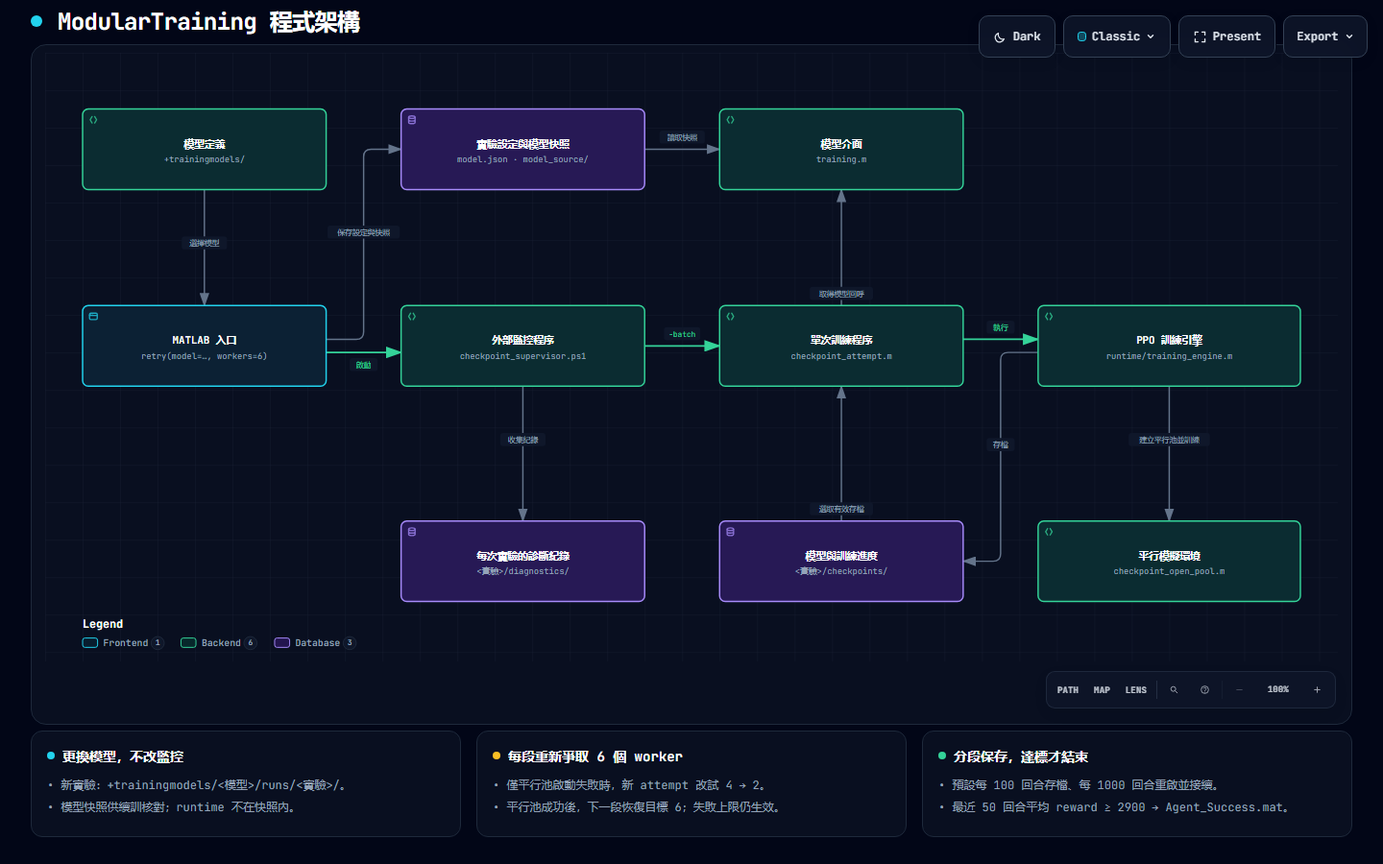
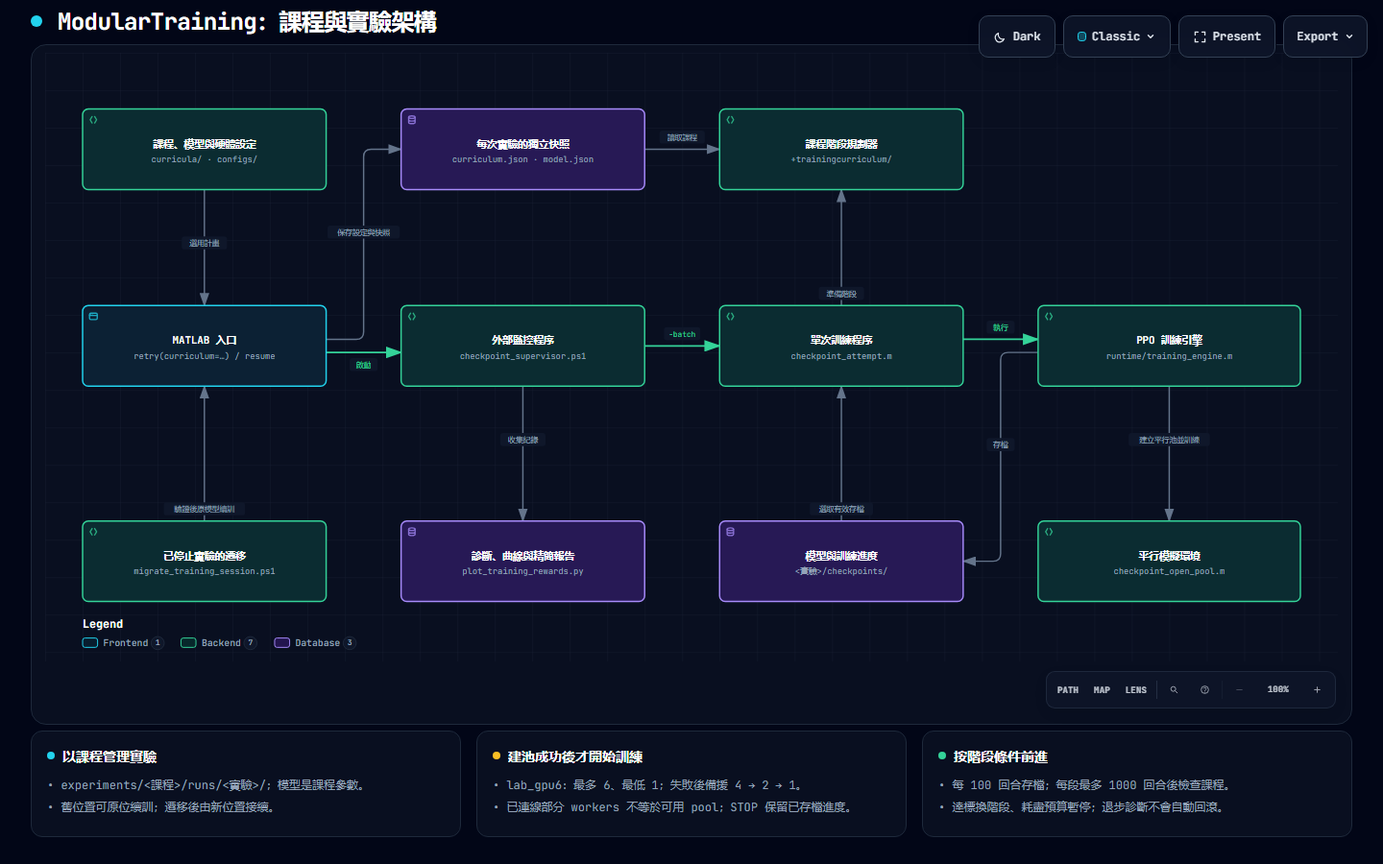
docs: update curriculum training architecture diagram

diff --git a/docs/architecture.html b/docs/architecture.html
@@ -4,7 +4,7 @@
   <meta charset="UTF-8">
   <meta name="viewport" content="width=device-width, initial-scale=1.0">
   <meta name="generator" content="archify 2.17.0-dev.1">
-  <title>ModularTraining 程式架構 Diagram</title>
+  <title>ModularTraining：課程與實驗架構 Diagram</title>
   <script>
     // Resolve the theme before first paint so light-preference users don't
     // see a dark flash. The toolbar script below re-applies with UI state.
@@ -5081,7 +5081,7 @@ OTHER DEALINGS IN THE FONT SOFTWARE.
            data-preset-badge-blueprint="BLUEPRINT / REV 01"
            data-preset-badge-editorial="EDITORIAL / FIELD NOTE">
         <div class="pulse-dot"></div>
-        <h1>ModularTraining 程式架構</h1>
+        <h1>ModularTraining：課程與實驗架構</h1>
       </div>
     </div>
 
@@ -5131,7 +5131,7 @@ OTHER DEALINGS IN THE FONT SOFTWARE.
     <div class="diagram-container" data-detail-level="read"
          data-preset-badge-editorial-plate="ARCHIFY / PLATE 04">
       <svg viewBox="0 0 1380 650" role="img" lang="en" aria-labelledby="archify-diagram-title archify-diagram-description" data-preset="classic" data-quality-profile="showcase">
-        <title id="archify-diagram-title">ModularTraining 程式架構</title>
+        <title id="archify-diagram-title">ModularTraining：課程與實驗架構</title>
         <desc id="archify-diagram-description">An architecture diagram generated by Archify.</desc>
         <!-- Definitions -->
         <defs>
@@ -5159,58 +5159,59 @@ OTHER DEALINGS IN THE FONT SOFTWARE.
 
 
         <!-- Connection paths (before components for correct z-order) -->
-        <path data-edge-from="profiles" data-edge-to="entry" data-edge-label="選擇模型" data-edge-key="0" data-edge-id="read-profile" data-composition-points="170,146;170,270" d="M 170 146 L 170 270" class="a-default" stroke-width="1.5" marker-end="url(#arrowhead)"/>
+        <path data-edge-from="profiles" data-edge-to="entry" data-edge-label="選用計畫" data-edge-key="0" data-edge-id="read-profile" data-composition-points="170,146;170,270" d="M 170 146 L 170 270" class="a-default" stroke-width="1.5" marker-end="url(#arrowhead)"/>
         <path data-edge-from="entry" data-edge-to="snapshot" data-edge-label="保存設定與快照" data-edge-key="1" data-edge-id="freeze-model" data-composition-points="300,306;340,306;340,103;380,103" d="M 300 306 L 332 306 Q 340 306 340 298 L 340 111 Q 340 103 348 103 L 380 103" class="a-default" stroke-width="1.5" marker-end="url(#arrowhead)"/>
-        <path data-edge-from="snapshot" data-edge-to="adapter" data-edge-label="讀取快照" data-edge-key="2" data-edge-id="load-snapshot" data-composition-points="640,103;720,103" d="M 640 103 L 720 103" class="a-default" stroke-width="1.5" marker-end="url(#arrowhead)"/>
+        <path data-edge-from="snapshot" data-edge-to="adapter" data-edge-label="讀取課程" data-edge-key="2" data-edge-id="load-snapshot" data-composition-points="640,103;720,103" d="M 640 103 L 720 103" class="a-default" stroke-width="1.5" marker-end="url(#arrowhead)"/>
         <path data-edge-from="entry" data-edge-to="supervisor" data-edge-label="啟動" data-edge-key="3" data-edge-id="launch-monitor" data-composition-points="300,320;380,320" d="M 300 320 L 380 320" class="a-emphasis" stroke-width="1.8" marker-end="url(#arrowhead-emphasis)"/>
         <path data-edge-from="supervisor" data-edge-to="attempt" data-edge-label="-batch" data-edge-key="4" data-edge-id="launch-attempt" data-composition-points="640,313;720,313" d="M 640 313 L 720 313" class="a-emphasis" stroke-width="1.8" marker-end="url(#arrowhead-emphasis)"/>
-        <path data-edge-from="attempt" data-edge-to="adapter" data-edge-label="取得模型回呼" data-edge-key="5" data-edge-id="inject-model" data-composition-points="850,270;850,146" d="M 850 270 L 850 146" class="a-default" stroke-width="1.5" marker-end="url(#arrowhead)"/>
+        <path data-edge-from="attempt" data-edge-to="adapter" data-edge-label="準備階段" data-edge-key="5" data-edge-id="inject-model" data-composition-points="850,270;850,146" d="M 850 270 L 850 146" class="a-default" stroke-width="1.5" marker-end="url(#arrowhead)"/>
         <path data-edge-from="attempt" data-edge-to="engine" data-edge-label="執行" data-edge-key="6" data-edge-id="run-engine" data-composition-points="980,306;1060,306" d="M 980 306 L 1060 306" class="a-emphasis" stroke-width="1.8" marker-end="url(#arrowhead-emphasis)"/>
         <path data-edge-from="checkpoints" data-edge-to="attempt" data-edge-label="選取有效存檔" data-edge-key="7" data-edge-id="resume-model" data-composition-points="850,500;850,356" d="M 850 500 L 850 356" class="a-default" stroke-width="1.5" marker-end="url(#arrowhead)"/>
         <path data-edge-from="engine" data-edge-to="pool" data-edge-label="建立平行池並訓練" data-edge-key="8" data-edge-id="train-workers" data-composition-points="1200,356;1200,500" d="M 1200 356 L 1200 500" class="a-default" stroke-width="1.5" marker-end="url(#arrowhead)"/>
         <path data-edge-from="engine" data-edge-to="checkpoints" data-edge-label="存檔" data-edge-key="9" data-edge-id="save-progress" data-composition-points="1060,320;1020,320;1020,543;980,543" d="M 1060 320 L 1028 320 Q 1020 320 1020 328 L 1020 535 Q 1020 543 1012 543 L 980 543" class="a-default" stroke-width="1.5" marker-end="url(#arrowhead)"/>
         <path data-edge-from="supervisor" data-edge-to="diagnostics" data-edge-label="收集紀錄" data-edge-key="10" data-edge-id="record-diagnostics" data-composition-points="510,356;510,500" d="M 510 356 L 510 500" class="a-default" stroke-width="1.5" marker-end="url(#arrowhead)"/>
+        <path data-edge-from="migration" data-edge-to="entry" data-edge-label="驗證後原模型續訓" data-edge-key="11" data-edge-id="resume-copy" data-composition-points="170,500;170,356" d="M 170 500 L 170 356" class="a-default" stroke-width="1.5" marker-end="url(#arrowhead)"/>
 
         <!-- Components -->
-        <g id="node-profiles" data-node-id="profiles" data-node-label="模型定義" tabindex="0" role="button" aria-label="Focus 模型定義, +trainingmodels/, Architecture component" aria-pressed="false" data-node-kind="backend" data-node-sublabel="+trainingmodels/" data-node-tag="PPO · LSTM / MLP · 調參版本" data-node-context="Architecture component">
-          <title>模型定義 · +trainingmodels/ · Architecture component · PPO · LSTM / MLP · 調參版本</title>
+        <g id="node-profiles" data-node-id="profiles" data-node-label="課程、模型與硬體設定" tabindex="0" role="button" aria-label="Focus 課程、模型與硬體設定, curricula/ · configs/, Architecture component" aria-pressed="false" data-node-kind="backend" data-node-sublabel="curricula/ · configs/" data-node-tag="課程指定 +trainingmodels/ 模型" data-node-context="Architecture component">
+          <title>課程、模型與硬體設定 · curricula/ · configs/ · Architecture component · 課程指定 +trainingmodels/ 模型</title>
           <rect x="40" y="60" width="260" height="86" rx="6" class="c-mask"/>
           <rect x="40" y="60" width="260" height="86" rx="6" class="c-backend" stroke-width="1.5"/>
           <g aria-hidden="true" data-semantic-sigil="backend" class="semantic-sigil s-backend" transform="translate(46 66) scale(0.6875)">
             <path d="M6 3 3 8l3 5M10 3l3 5-3 5"/>
           </g>
-          <text data-node-label="" data-detail-anchor="" x="170" y="101" class="t-primary" font-size="11" font-weight="600" text-anchor="middle">模型定義</text>
-        <text data-detail="context" x="170" y="117" class="t-muted" font-size="9" text-anchor="middle">+trainingmodels/</text>
-        <text data-detail="fine" x="170" y="138" class="t-backend" font-size="7" text-anchor="middle">PPO · LSTM / MLP · 調參版本</text>
+          <text data-node-label="" data-detail-anchor="" x="170" y="101" class="t-primary" font-size="11" font-weight="600" text-anchor="middle">課程、模型與硬體設定</text>
+        <text data-detail="context" x="170" y="117" class="t-muted" font-size="9" text-anchor="middle">curricula/ · configs/</text>
+        <text data-detail="fine" x="170" y="138" class="t-backend" font-size="7" text-anchor="middle">課程指定 +trainingmodels/ 模型</text>
         </g>
 
-        <g id="node-snapshot" data-node-id="snapshot" data-node-label="實驗設定與模型快照" tabindex="0" role="button" aria-label="Focus 實驗設定與模型快照, model.json · model_source/, Architecture component" aria-pressed="false" data-node-kind="database" data-node-sublabel="model.json · model_source/" data-node-tag="control.json：執行參數" data-node-context="Architecture component">
-          <title>實驗設定與模型快照 · model.json · model_source/ · Architecture component · control.json：執行參數</title>
+        <g id="node-snapshot" data-node-id="snapshot" data-node-label="每次實驗的獨立快照" tabindex="0" role="button" aria-label="Focus 每次實驗的獨立快照, curriculum.json · model.json, Architecture component" aria-pressed="false" data-node-kind="database" data-node-sublabel="curriculum.json · model.json" data-node-tag="軌跡、模型原始碼與 control.json" data-node-context="Architecture component">
+          <title>每次實驗的獨立快照 · curriculum.json · model.json · Architecture component · 軌跡、模型原始碼與 control.json</title>
           <rect x="380" y="60" width="260" height="86" rx="6" class="c-mask"/>
           <rect x="380" y="60" width="260" height="86" rx="6" class="c-database" stroke-width="1.5"/>
           <g aria-hidden="true" data-semantic-sigil="database" class="semantic-sigil s-database" transform="translate(386 66) scale(0.6875)">
             <ellipse cx="8" cy="4" rx="5" ry="2"/>
             <path d="M3 4v8c0 1.1 2.2 2 5 2s5-.9 5-2V4M3 8c0 1.1 2.2 2 5 2s5-.9 5-2"/>
           </g>
-          <text data-node-label="" data-detail-anchor="" x="510" y="101" class="t-primary" font-size="11" font-weight="600" text-anchor="middle">實驗設定與模型快照</text>
-        <text data-detail="context" x="510" y="117" class="t-muted" font-size="9" text-anchor="middle">model.json · model_source/</text>
-        <text data-detail="fine" x="510" y="138" class="t-database" font-size="7" text-anchor="middle">control.json：執行參數</text>
+          <text data-node-label="" data-detail-anchor="" x="510" y="101" class="t-primary" font-size="11" font-weight="600" text-anchor="middle">每次實驗的獨立快照</text>
+        <text data-detail="context" x="510" y="117" class="t-muted" font-size="9" text-anchor="middle">curriculum.json · model.json</text>
+        <text data-detail="fine" x="510" y="138" class="t-database" font-size="7" text-anchor="middle">軌跡、模型原始碼與 control.json</text>
         </g>
 
-        <g id="node-adapter" data-node-id="adapter" data-node-label="模型介面" tabindex="0" role="button" aria-label="Focus 模型介面, training.m, Architecture component" aria-pressed="false" data-node-kind="backend" data-node-sublabel="training.m" data-node-tag="回傳 factory / validator 回呼" data-node-context="Architecture component">
-          <title>模型介面 · training.m · Architecture component · 回傳 factory / validator 回呼</title>
+        <g id="node-adapter" data-node-id="adapter" data-node-label="課程階段規劃器" tabindex="0" role="button" aria-label="Focus 課程階段規劃器, +trainingcurriculum/, Architecture component" aria-pressed="false" data-node-kind="backend" data-node-sublabel="+trainingcurriculum/" data-node-tag="依存檔歷史檢查條件與階段預算" data-node-context="Architecture component">
+          <title>課程階段規劃器 · +trainingcurriculum/ · Architecture component · 依存檔歷史檢查條件與階段預算</title>
           <rect x="720" y="60" width="260" height="86" rx="6" class="c-mask"/>
           <rect x="720" y="60" width="260" height="86" rx="6" class="c-backend" stroke-width="1.5"/>
           <g aria-hidden="true" data-semantic-sigil="backend" class="semantic-sigil s-backend" transform="translate(726 66) scale(0.6875)">
             <path d="M6 3 3 8l3 5M10 3l3 5-3 5"/>
           </g>
-          <text data-node-label="" data-detail-anchor="" x="850" y="101" class="t-primary" font-size="11" font-weight="600" text-anchor="middle">模型介面</text>
-        <text data-detail="context" x="850" y="117" class="t-muted" font-size="9" text-anchor="middle">training.m</text>
-        <text data-detail="fine" x="850" y="138" class="t-backend" font-size="7" text-anchor="middle">回傳 factory / validator 回呼</text>
+          <text data-node-label="" data-detail-anchor="" x="850" y="101" class="t-primary" font-size="11" font-weight="600" text-anchor="middle">課程階段規劃器</text>
+        <text data-detail="context" x="850" y="117" class="t-muted" font-size="9" text-anchor="middle">+trainingcurriculum/</text>
+        <text data-detail="fine" x="850" y="138" class="t-backend" font-size="7" text-anchor="middle">依存檔歷史檢查條件與階段預算</text>
         </g>
 
-        <g id="node-entry" data-node-id="entry" data-node-label="MATLAB 入口" tabindex="0" role="button" aria-label="Focus MATLAB 入口, retry(model=…, workers=6), Architecture component" aria-pressed="false" data-node-kind="frontend" data-node-sublabel="retry(model=…, workers=6)" data-node-tag="新實驗或 resume" data-node-context="Architecture component">
-          <title>MATLAB 入口 · retry(model=…, workers=6) · Architecture component · 新實驗或 resume</title>
+        <g id="node-entry" data-node-id="entry" data-node-label="MATLAB 入口" tabindex="0" role="button" aria-label="Focus MATLAB 入口, retry(curriculum=…) / resume, Architecture component" aria-pressed="false" data-node-kind="frontend" data-node-sublabel="retry(curriculum=…) / resume" data-node-tag="新建按課程分類；續訓沿用指定位置" data-node-context="Architecture component">
+          <title>MATLAB 入口 · retry(curriculum=…) / resume · Architecture component · 新建按課程分類；續訓沿用指定位置</title>
           <rect x="40" y="270" width="260" height="86" rx="6" class="c-mask"/>
           <rect x="40" y="270" width="260" height="86" rx="6" class="c-frontend" stroke-width="1.5"/>
           <g aria-hidden="true" data-semantic-sigil="frontend" class="semantic-sigil s-frontend" transform="translate(46 276) scale(0.6875)">
@@ -5220,8 +5221,8 @@ OTHER DEALINGS IN THE FONT SOFTWARE.
             <circle cx="6.3" cy="4.8" r=".7" class="sigil-fill"/>
           </g>
           <text data-node-label="" data-detail-anchor="" x="170" y="311" class="t-primary" font-size="11" font-weight="600" text-anchor="middle">MATLAB 入口</text>
-        <text data-detail="context" x="170" y="327" class="t-muted" font-size="9" text-anchor="middle">retry(model=…, workers=6)</text>
-        <text data-detail="fine" x="170" y="348" class="t-frontend" font-size="7" text-anchor="middle">新實驗或 resume</text>
+        <text data-detail="context" x="170" y="327" class="t-muted" font-size="9" text-anchor="middle">retry(curriculum=…) / resume</text>
+        <text data-detail="fine" x="170" y="348" class="t-frontend" font-size="7" text-anchor="middle">新建按課程分類；續訓沿用指定位置</text>
         </g>
 
         <g id="node-supervisor" data-node-id="supervisor" data-node-label="外部監控程序" tabindex="0" role="button" aria-label="Focus 外部監控程序, checkpoint_supervisor.ps1, Architecture component" aria-pressed="false" data-node-kind="backend" data-node-sublabel="checkpoint_supervisor.ps1" data-node-tag="PowerShell · 重試與逾時" data-node-context="Architecture component">
@@ -5236,8 +5237,8 @@ OTHER DEALINGS IN THE FONT SOFTWARE.
         <text data-detail="fine" x="510" y="348" class="t-backend" font-size="7" text-anchor="middle">PowerShell · 重試與逾時</text>
         </g>
 
-        <g id="node-attempt" data-node-id="attempt" data-node-label="單次訓練程序" tabindex="0" role="button" aria-label="Focus 單次訓練程序, checkpoint_attempt.m, Architecture component" aria-pressed="false" data-node-kind="backend" data-node-sublabel="checkpoint_attempt.m" data-node-tag="每次使用新的 MATLAB" data-node-context="Architecture component">
-          <title>單次訓練程序 · checkpoint_attempt.m · Architecture component · 每次使用新的 MATLAB</title>
+        <g id="node-attempt" data-node-id="attempt" data-node-label="單次訓練程序" tabindex="0" role="button" aria-label="Focus 單次訓練程序, checkpoint_attempt.m, Architecture component" aria-pressed="false" data-node-kind="backend" data-node-sublabel="checkpoint_attempt.m" data-node-tag="training.m 提供模型回呼" data-node-context="Architecture component">
+          <title>單次訓練程序 · checkpoint_attempt.m · Architecture component · training.m 提供模型回呼</title>
           <rect x="720" y="270" width="260" height="86" rx="6" class="c-mask"/>
           <rect x="720" y="270" width="260" height="86" rx="6" class="c-backend" stroke-width="1.5"/>
           <g aria-hidden="true" data-semantic-sigil="backend" class="semantic-sigil s-backend" transform="translate(726 276) scale(0.6875)">
@@ -5245,7 +5246,7 @@ OTHER DEALINGS IN THE FONT SOFTWARE.
           </g>
           <text data-node-label="" data-detail-anchor="" x="850" y="311" class="t-primary" font-size="11" font-weight="600" text-anchor="middle">單次訓練程序</text>
         <text data-detail="context" x="850" y="327" class="t-muted" font-size="9" text-anchor="middle">checkpoint_attempt.m</text>
-        <text data-detail="fine" x="850" y="348" class="t-backend" font-size="7" text-anchor="middle">每次使用新的 MATLAB</text>
+        <text data-detail="fine" x="850" y="348" class="t-backend" font-size="7" text-anchor="middle">training.m 提供模型回呼</text>
         </g>
 
         <g id="node-engine" data-node-id="engine" data-node-label="PPO 訓練引擎" tabindex="0" role="button" aria-label="Focus PPO 訓練引擎, runtime/training_engine.m, Architecture component" aria-pressed="false" data-node-kind="backend" data-node-sublabel="runtime/training_engine.m" data-node-tag="建立環境 · 呼叫 train" data-node-context="Architecture component">
@@ -5260,17 +5261,17 @@ OTHER DEALINGS IN THE FONT SOFTWARE.
         <text data-detail="fine" x="1200" y="348" class="t-backend" font-size="7" text-anchor="middle">建立環境 · 呼叫 train</text>
         </g>
 
-        <g id="node-diagnostics" data-node-id="diagnostics" data-node-label="每次實驗的診斷紀錄" tabindex="0" role="button" aria-label="Focus 每次實驗的診斷紀錄, &lt;實驗&gt;/diagnostics/, Architecture component" aria-pressed="false" data-node-kind="database" data-node-sublabel="&lt;實驗&gt;/diagnostics/" data-node-tag="episode / worker / 錯誤日誌" data-node-context="Architecture component">
-          <title>每次實驗的診斷紀錄 · &lt;實驗&gt;/diagnostics/ · Architecture component · episode / worker / 錯誤日誌</title>
+        <g id="node-diagnostics" data-node-id="diagnostics" data-node-label="診斷、曲線與精簡報告" tabindex="0" role="button" aria-label="Focus 診斷、曲線與精簡報告, plot_training_rewards.py, Architecture component" aria-pressed="false" data-node-kind="database" data-node-sublabel="plot_training_rewards.py" data-node-tag="stage 分界 · export_training_report.py" data-node-context="Architecture component">
+          <title>診斷、曲線與精簡報告 · plot_training_rewards.py · Architecture component · stage 分界 · export_training_report.py</title>
           <rect x="380" y="500" width="260" height="86" rx="6" class="c-mask"/>
           <rect x="380" y="500" width="260" height="86" rx="6" class="c-database" stroke-width="1.5"/>
           <g aria-hidden="true" data-semantic-sigil="database" class="semantic-sigil s-database" transform="translate(386 506) scale(0.6875)">
             <ellipse cx="8" cy="4" rx="5" ry="2"/>
             <path d="M3 4v8c0 1.1 2.2 2 5 2s5-.9 5-2V4M3 8c0 1.1 2.2 2 5 2s5-.9 5-2"/>
           </g>
-          <text data-node-label="" data-detail-anchor="" x="510" y="541" class="t-primary" font-size="11" font-weight="600" text-anchor="middle">每次實驗的診斷紀錄</text>
-        <text data-detail="context" x="510" y="557" class="t-muted" font-size="9" text-anchor="middle">&lt;實驗&gt;/diagnostics/</text>
-        <text data-detail="fine" x="510" y="578" class="t-database" font-size="7" text-anchor="middle">episode / worker / 錯誤日誌</text>
+          <text data-node-label="" data-detail-anchor="" x="510" y="541" class="t-primary" font-size="11" font-weight="600" text-anchor="middle">診斷、曲線與精簡報告</text>
+        <text data-detail="context" x="510" y="557" class="t-muted" font-size="9" text-anchor="middle">plot_training_rewards.py</text>
+        <text data-detail="fine" x="510" y="578" class="t-database" font-size="7" text-anchor="middle">stage 分界 · export_training_report.py</text>
         </g>
 
         <g id="node-checkpoints" data-node-id="checkpoints" data-node-label="模型與訓練進度" tabindex="0" role="button" aria-label="Focus 模型與訓練進度, &lt;實驗&gt;/checkpoints/, Architecture component" aria-pressed="false" data-node-kind="database" data-node-sublabel="&lt;實驗&gt;/checkpoints/" data-node-tag="Agent_Final / Agent_Success" data-node-context="Architecture component">
@@ -5298,18 +5299,30 @@ OTHER DEALINGS IN THE FONT SOFTWARE.
         <text data-detail="fine" x="1200" y="578" class="t-backend" font-size="7" text-anchor="middle">worker 執行 FAFA_Simulation.slx</text>
         </g>
 
+        <g id="node-migration" data-node-id="migration" data-node-label="已停止實驗的遷移" tabindex="0" role="button" aria-label="Focus 已停止實驗的遷移, migrate_training_session.ps1, Architecture component" aria-pressed="false" data-node-kind="backend" data-node-sublabel="migrate_training_session.ps1" data-node-tag="完整複製與雜湊驗證；保留原件" data-node-context="Architecture component">
+          <title>已停止實驗的遷移 · migrate_training_session.ps1 · Architecture component · 完整複製與雜湊驗證；保留原件</title>
+          <rect x="40" y="500" width="260" height="86" rx="6" class="c-mask"/>
+          <rect x="40" y="500" width="260" height="86" rx="6" class="c-backend" stroke-width="1.5"/>
+          <g aria-hidden="true" data-semantic-sigil="backend" class="semantic-sigil s-backend" transform="translate(46 506) scale(0.6875)">
+            <path d="M6 3 3 8l3 5M10 3l3 5-3 5"/>
+          </g>
+          <text data-node-label="" data-detail-anchor="" x="170" y="541" class="t-primary" font-size="11" font-weight="600" text-anchor="middle">已停止實驗的遷移</text>
+        <text data-detail="context" x="170" y="557" class="t-muted" font-size="9" text-anchor="middle">migrate_training_session.ps1</text>
+        <text data-detail="fine" x="170" y="578" class="t-backend" font-size="7" text-anchor="middle">完整複製與雜湊驗證；保留原件</text>
+        </g>
+
         <!-- Connection labels -->
-        <g data-detail="context" data-edge-from="profiles" data-edge-to="entry" data-edge-label="選擇模型" data-edge-key="0" data-edge-id="read-profile">
+        <g data-detail="context" data-edge-from="profiles" data-edge-to="entry" data-edge-label="選用計畫" data-edge-key="0" data-edge-id="read-profile">
           <rect x="145.8" y="196" width="48.4" height="14" rx="3" class="c-mask"/>
-          <text x="170" y="206" class="t-muted" font-size="8" text-anchor="middle">選擇模型</text>
+          <text x="170" y="206" class="t-muted" font-size="8" text-anchor="middle">選用計畫</text>
         </g>
         <g data-detail="context" data-edge-from="entry" data-edge-to="snapshot" data-edge-label="保存設定與快照" data-edge-key="1" data-edge-id="freeze-model">
           <rect x="301.4" y="184.5" width="77.2" height="14" rx="3" class="c-mask"/>
           <text x="340" y="194.5" class="t-muted" font-size="8" text-anchor="middle">保存設定與快照</text>
         </g>
-        <g data-detail="context" data-edge-from="snapshot" data-edge-to="adapter" data-edge-label="讀取快照" data-edge-key="2" data-edge-id="load-snapshot">
+        <g data-detail="context" data-edge-from="snapshot" data-edge-to="adapter" data-edge-label="讀取課程" data-edge-key="2" data-edge-id="load-snapshot">
           <rect x="655.8" y="83" width="48.4" height="14" rx="3" class="c-mask"/>
-          <text x="680" y="93" class="t-muted" font-size="8" text-anchor="middle">讀取快照</text>
+          <text x="680" y="93" class="t-muted" font-size="8" text-anchor="middle">讀取課程</text>
         </g>
         <g data-detail="context" data-edge-from="entry" data-edge-to="supervisor" data-edge-label="啟動" data-edge-key="3" data-edge-id="launch-monitor">
           <rect x="325" y="326" width="30" height="14" rx="3" class="c-mask"/>
@@ -5319,9 +5332,9 @@ OTHER DEALINGS IN THE FONT SOFTWARE.
           <rect x="660.6" y="293" width="38.8" height="14" rx="3" class="c-mask"/>
           <text x="680" y="303" class="t-backend" font-size="8" text-anchor="middle">-batch</text>
         </g>
-        <g data-detail="context" data-edge-from="attempt" data-edge-to="adapter" data-edge-label="取得模型回呼" data-edge-key="5" data-edge-id="inject-model">
-          <rect x="816.2" y="250" width="67.6" height="14" rx="3" class="c-mask"/>
-          <text x="850" y="260" class="t-muted" font-size="8" text-anchor="middle">取得模型回呼</text>
+        <g data-detail="context" data-edge-from="attempt" data-edge-to="adapter" data-edge-label="準備階段" data-edge-key="5" data-edge-id="inject-model">
+          <rect x="825.8" y="250" width="48.4" height="14" rx="3" class="c-mask"/>
+          <text x="850" y="260" class="t-muted" font-size="8" text-anchor="middle">準備階段</text>
         </g>
         <g data-detail="context" data-edge-from="attempt" data-edge-to="engine" data-edge-label="執行" data-edge-key="6" data-edge-id="run-engine">
           <rect x="1005" y="286" width="30" height="14" rx="3" class="c-mask"/>
@@ -5342,6 +5355,10 @@ OTHER DEALINGS IN THE FONT SOFTWARE.
         <g data-detail="context" data-edge-from="supervisor" data-edge-to="diagnostics" data-edge-label="收集紀錄" data-edge-key="10" data-edge-id="record-diagnostics">
           <rect x="485.8" y="406" width="48.4" height="14" rx="3" class="c-mask"/>
           <text x="510" y="416" class="t-muted" font-size="8" text-anchor="middle">收集紀錄</text>
+        </g>
+        <g data-detail="context" data-edge-from="migration" data-edge-to="entry" data-edge-label="驗證後原模型續訓" data-edge-key="11" data-edge-id="resume-copy">
+          <rect x="126.6" y="480" width="86.8" height="14" rx="3" class="c-mask"/>
+          <text x="170" y="490" class="t-muted" font-size="8" text-anchor="middle">驗證後原模型續訓</text>
         </g>
 
         <!-- Boundary labels (foreground masks keep routes out of titles) -->
@@ -5552,33 +5569,33 @@ OTHER DEALINGS IN THE FONT SOFTWARE.
       <div class="card">
         <div class="card-header">
           <div class="card-dot cyan"></div>
-          <h3>更換模型，不改監控</h3>
+          <h3>以課程管理實驗</h3>
         </div>
         <ul>
-          <li>&bull; 新實驗：+trainingmodels/&lt;模型&gt;/runs/&lt;實驗&gt;/。</li>
-          <li>&bull; 模型快照供續訓核對；runtime 不在快照內。</li>
+          <li>&bull; experiments/&lt;課程&gt;/runs/&lt;實驗&gt;/；模型是課程參數。</li>
+          <li>&bull; 舊位置可原位續訓；遷移後由新位置接續。</li>
         </ul>
       </div>
 
       <div class="card">
         <div class="card-header">
           <div class="card-dot amber"></div>
-          <h3>每段重新爭取 6 個 worker</h3>
+          <h3>建池成功後才開始訓練</h3>
         </div>
         <ul>
-          <li>&bull; 僅平行池啟動失敗時，新 attempt 改試 4 → 2。</li>
-          <li>&bull; 平行池成功後，下一段恢復目標 6；失敗上限仍生效。</li>
+          <li>&bull; lab_gpu6：最多 6、最低 1；失敗後備援 4 → 2 → 1。</li>
+          <li>&bull; 已連線部分 workers 不等於可用 pool；STOP 保留已存檔進度。</li>
         </ul>
       </div>
 
       <div class="card">
         <div class="card-header">
           <div class="card-dot emerald"></div>
-          <h3>分段保存，達標才結束</h3>
+          <h3>按階段條件前進</h3>
         </div>
         <ul>
-          <li>&bull; 預設每 100 回合存檔、每 1000 回合重啟並接續。</li>
-          <li>&bull; 最近 50 回合平均 reward ≥ 2900 → Agent_Success.mat。</li>
+          <li>&bull; 每 100 回合存檔；每段最多 1000 回合後檢查課程。</li>
+          <li>&bull; 達標換階段、耗盡預算暫停；退步診斷不會自動回滾。</li>
         </ul>
       </div>
     </div>

diff --git a/docs/architecture-notes.md b/docs/architecture-notes.md
@@ -1,36 +1,37 @@
-# 流程圖核對與詳細說明
+# 架構圖核對與閱讀說明
 
-核對日期：2026-09-24。依據目前工作區程式作靜態檢查，未因此重新執行長時間訓練。簡報第 38–42 頁將整體流程拆成可逐頁說明的內容。
+核對日期：2026-10-10。架構 HTML／JSON 已依目前程式更新；此次未啟動或修改訓練。舊簡報中的架構頁不會因 HTML 更新而自動同步。
 
-## 執行順序
+## 課程驅動的執行順序
 
-1. `retry.m` 讀取選定的模型 profile；新實驗建立於 `+trainingmodels/<model>/runs/<experiment>/`。保存 `model.json`、`control.json` 與 `model_source/`。續訓沿用既有實驗設定，並檢查模型與快照。
-2. PowerShell supervisor 啟動獨立 MATLAB 程序，執行 `runtime/checkpoint_attempt.m`。它選擇有效 checkpoint、準備 overrides，呼叫 `training.m` 取得 agent 建立與驗證回呼，再執行 `runtime/training_engine.m`。
-3. 訓練引擎建立新 agent，或恢復存檔中的 agent 與訓練歷史；驗證相容性，建立平行池並訓練。
-4. 預設每 100 回合存檔，每個程序最多追加 1,000 回合。正常返回後保存 `Agent_Final` 與對應歷史，再判斷最近 50 回合平均 reward 是否達 2,900。達標才保存成功模型並發布成功狀態；正常結束本身不代表達標。
-5. 未達標時，下一個程序從已保存進度繼續。尚未保存的進度可能遺失，亂數、路徑與部分環境狀態重新初始化，並非完整狀態重播。
+1. `configs/lab_gpu6.json` 指定硬體、存檔與重試參數，引用 `curricula/progressive_v1.json`。課程指定模型、軌跡、風場、過關條件與各階段預算；模型定義仍在 `+trainingmodels/`。
+2. `retry.m` 新建 `experiments/<課程 JSON 檔名>/runs/<實驗 ID>/`，保存 control、curriculum、軌跡、model 與 model_source 快照。非課程實驗保留模型目錄分類；resume 依完整實驗路徑原位接續。
+3. PowerShell supervisor 啟動 `checkpoint_attempt.m`。它選取有效 checkpoint，透過 `training.m` 取得模型建立／驗證回呼，並用 `trainingcurriculum.prepare` 檢查課程歷史、取得目前階段環境。課程結束或預算暫停時不啟動 engine。
+4. `training_engine.m` 載入原 agent 與訓練歷史或建立新 agent；建立 pool，讓 workers 執行 `FAFA_Simulation.slx`。同一課程跨階段沿用 agent，沒有重新初始化網路。
+5. 實驗室設定每 100 回合存 checkpoint、每段最多追加 1000 回合。段落結束保存 Agent_Final，再按該階段保存的歷史判斷；達標於下一個 attempt 切換階段，預算用盡則依 on_limit 處理。最後階段達標才發布課程成功。
+6. 課程模式不採舊的全實驗 reward >=2900 成功規則。progressive_v1 每階段結合最低回合數、連續三個 100 回合區間 reward 與步數指標；這些門檻仍待長期驗證。
 
-## worker 重試條件
+## Worker 與失敗恢復
 
-**2026-10-09 更新：** 下述 6 → 4 → 2 是 pool 整體失敗後的 supervisor 備援。現在優先用 `[minWorkers,workers]` 在同一次建池取得可用數量（預設 1–6），成功後同一 attempt 直接訓練；WorkerRandomSeeds 與保存的 numWorkers 跟隨實際 pool 大小。下限由 retry 的 minWorkers 設定，舊 control.json 預設 1。部分連線但整個 pool 建立失敗仍不能開始訓練。
+- lab_gpu6 目標 6、最低 1，使用 parpool 的數量範圍；只有成功返回的 pool 才能訓練。「Connected to 5 of 6」不是已可使用的 5-worker pool。
+- pool 建立失敗後，後續 attempt 依 lab_gpu6 的 4 → 2 → 1 備援重建。不是保留未完成的部分連線。一般 retry 預設備援仍為 [4 2]，不要混淆設定檔與函式預設。
+- 成功建池後，下一段恢復目標數量。狀態中的 running 只代表程序執行中；Pool ready 與 Episode 日誌才證明後續進展。
+- 預設啟動逾時 600 秒、日誌無活動逾時 1800 秒；連續無進度失敗達上限便暫停。STOP 中止程序，保留已保存 checkpoint，不會額外先保存尚未完成的回合。
 
-- 預設目標為 6 個 worker。只有已進入平行池啟動階段、但未取得 pool-ready 證據的失敗才觸發 6 → 4 → 2 降級；更早的載入失敗不等同建池失敗。
-- 降級是在下一個 attempt 重建 pool，不是保留前次連上的部分 worker。
-- 成功建池後，下一段恢復目標 worker 數。每回合診斷記錄實際 worker 數。
-- 預設啟動逾時 600 秒、日誌無活動逾時 1,800 秒。耗盡備援數量後，連續 3 次無進度失敗會暫停。使用者 STOP 仍可中止；只保留已保存進度。
+## 實驗、圖表與遷移
 
-## 本次修正與閱讀限制
+- 診斷存於實驗 diagnostics／attempt 目錄。`plot_training_rewards.py` 讀 stdout 回合資料，讀 curriculum_state.json 的實際分界，產生有 Stage 標籤的 reward 圖。灰線是 attempt，橘線是 stage。
+- `export_training_report.py` 產生可分享的小型 report.json；learning_health 是匯出時計算的規則式診斷，沒有持續監控、自動停訓或回滾。完整 checkpoint 仍需另行保留。
+- `migrate_training_session.ps1` 只接受已停止、可取得排他鎖的實驗；複製全部資料、比對 SHA256、修正新副本控制路徑，保留原件。`verify_training_session.m` 讀回有效 PPO checkpoint 與階段位置，不啟動訓練；之後以 retry(resume=新位置) 接續。
+- 歷史日誌中的舊路徑不重寫。不能同時續跑新舊副本，不能在活動訓練時搬移或改 runtime。
 
-- 圖中的診斷位置已改成 `<experiment>/diagnostics/`；checkpoint 為 `<experiment>/checkpoints/`。舊 `sessions/`、根目錄 `training_diagnostics/` 為相容既有實驗的路徑。
-- `training.m` 的角色是提供模型回呼；由單次程序呼叫它。選取 checkpoint 與實際載入 agent 是不同步驟。
-- 模型快照包含模型程式，排除訓練輸出，不包含整套 runtime。執行中的實驗仍會受 runtime 修改影響。
-- 架構圖是控制與資料關係的摘要，箭頭不全是函式呼叫。HTML 圖例中的 Database 表示保存的資料檔案，並未使用資料庫服務。
-- Average reward 下滑與回合縮短為觀察結果；尚未確認因果。保守更新 profile 的建立測試不能當作長時間訓練改善的證據。
+## 圖的抽象範圍與證據
 
-## 程式對照
-
-入口與模型：`retry.m`、`training.m`、`+trainingmodels/load_profile.m`。
-
-執行與恢復：`runtime/checkpoint_attempt.m`、`runtime/training_engine.m`、`runtime/checkpoint_select_agent.m`、`runtime/checkpoint_save_final.m`、`runtime/checkpoint_mark_success.m`。
-
-監控與 worker：`runtime/checkpoint_supervisor.ps1`、`runtime/checkpoint_watchdog.ps1`、`runtime/checkpoint_open_pool.m`、`runtime/checkpoint_worker_diagnostics.ps1`。
+- 箭頭表示主要控制／資料關係，不全是函式呼叫；課程規劃器會將階段環境回傳給 attempt，圖中省略返回箭頭。引擎段末另呼叫 outcome 判斷條件。
+- 「診斷、曲線與精簡報告」將資料與離線工具合併呈現：supervisor 收集日誌，但不會自動啟動畫圖或匯出報告。Database 圖例表示檔案資料，不是資料庫服務。
+- 模型快照不包含整套 runtime；同一實驗不是任意版本執行程式的完整封裝。獨立 evaluator、最佳評估模型選擇、退步自動回滾尚未實作。
+- 對照來源：retry.m、training.m、configs/lab_gpu6.json、curricula/progressive_v1.json、+trainingcurriculum/prepare.m 與 outcome.m、runtime/checkpoint_supervisor.ps1、runtime/training_engine.m、migrate_training_session.ps1、verify_training_session.m、plot_training_rewards.py。
+- 本次使用 archify 技能產生 architecture 類型 HTML；繁體中文內容，固定 Viewer UI 與 HTML 語系為英文。
+- architecture-receipt.json：9/9 靜態 artifact 檢查通過，composition 0 errors／0 warnings，包含 specification 與 artifact SHA256／bytes。
+- architecture.visual-check.json：真實 Chrome 對 1440×900、1600×1000、1920×1080、2048×1320 的測量均無水平或垂直溢出；明暗截圖已產生。
+- 人工影像檢閱：檢查四張端點尺寸的明暗截圖，節點、箭頭、卡片與圖例未見裁切或遮擋；此判斷獨立於自動收據的 visualReview=pending，未改寫該欄位。

diff --git a/README.md b/README.md
@@ -2,6 +2,8 @@
 
 此專案由 Flower 中的 ModularTraining 複製出來，作為獨立專案維護；使用者已於 2026-10-09 告知自行放上 GitHub。執行不需要原 Flower 資料夾。
 
+[互動架構圖](docs/architecture.html)（2026-10-10 更新）：課程設定、實驗快照、訓練與續訓、遷移和診斷；詳細語意與驗證見 [架構說明](docs/architecture-notes.md)。
+
 ## JSON 分階段訓練
 
 新課程實驗按計畫存入 `experiments/<課程 JSON 檔名>/runs/<實驗>/`，模型為計畫參數。舊模型目錄實驗原位保留、可續訓，非課程訓練維持原分類。活動實驗保留、備份與分階段更新方式見 [課程分類與相容性](docs/curriculum-layout.md)。
